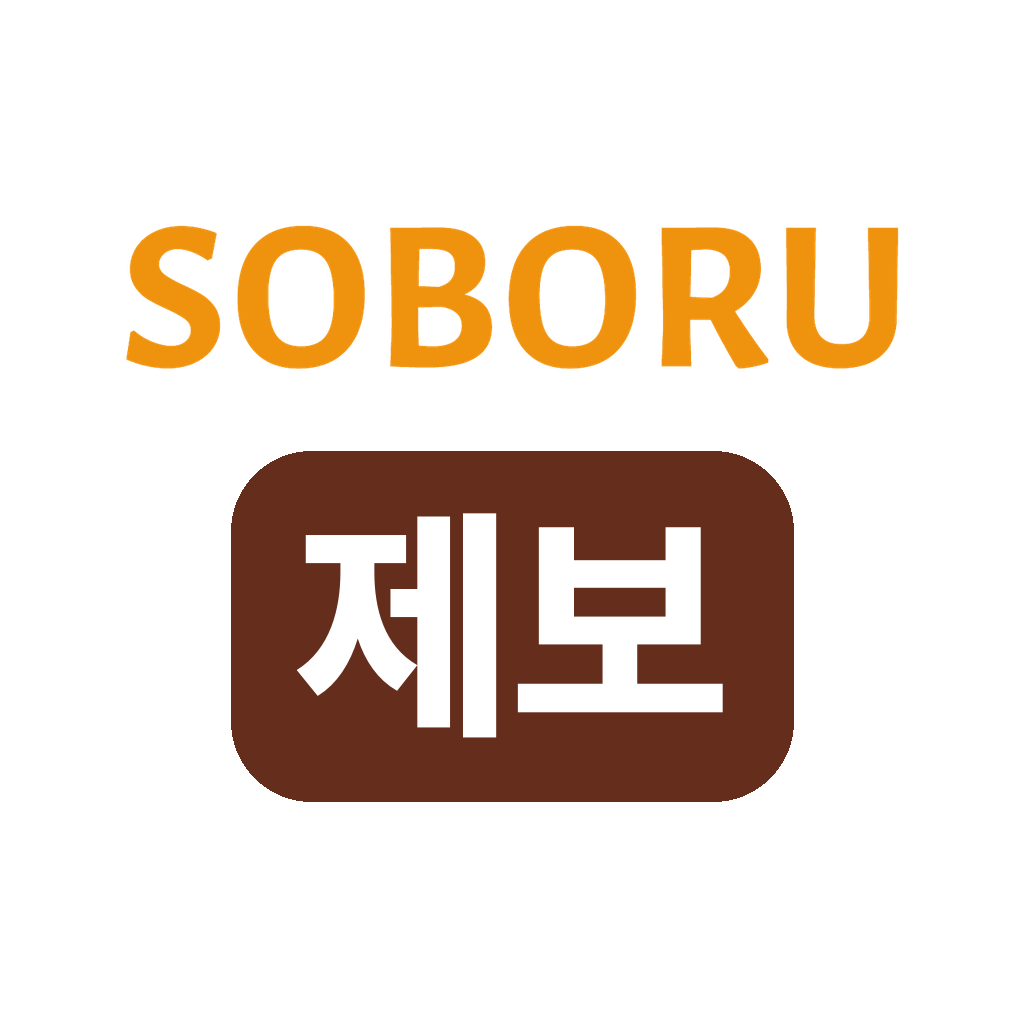
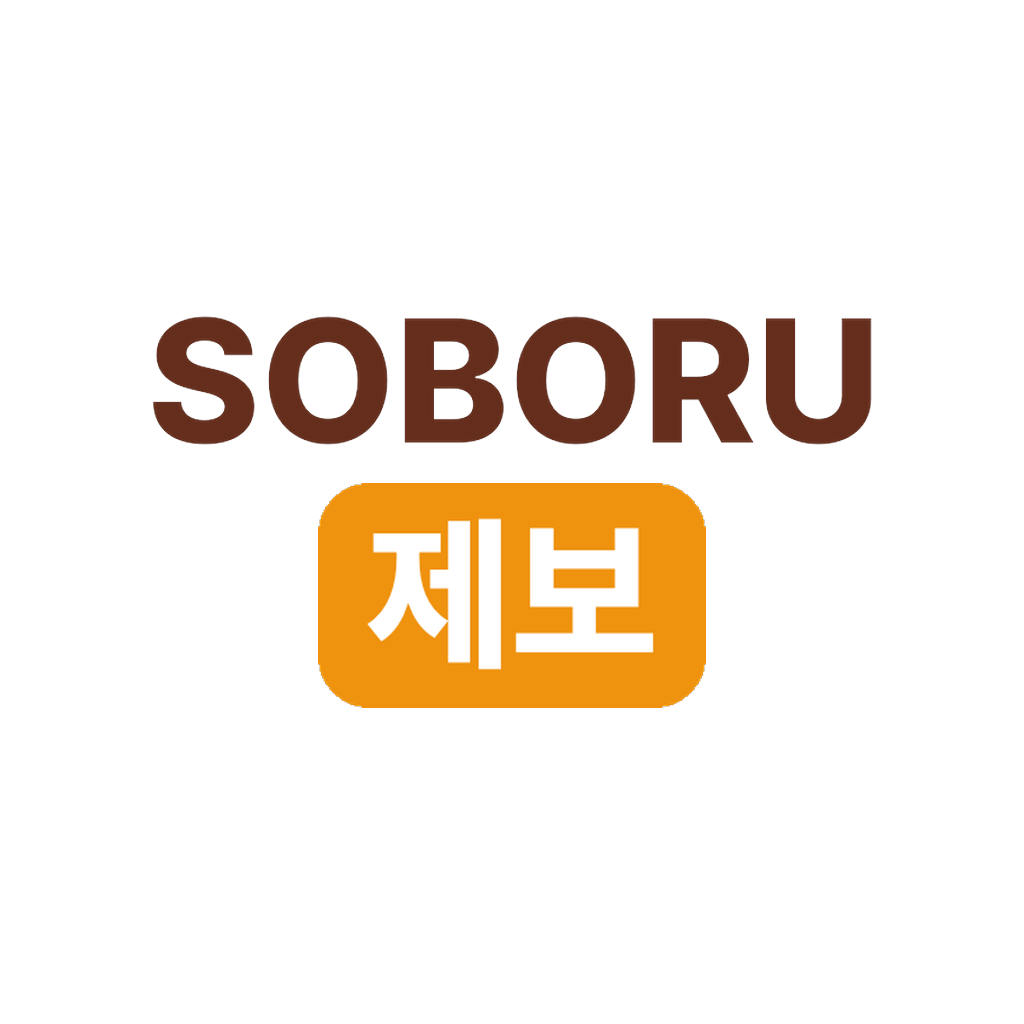
소보루제보 앱 1.1.0: 갈색 SOBORU + 귤색 제보 상자 아이콘, 제보하기 탭은 글쓰기 제보로
Claude-Session: https://claude.ai/code/session_01SGfBdtXmX7h9qt8XW4iLQw

Changed region(s): [[0.125, 0.2188, 0.875, 0.7812]]

diff --git a/soboru-app/src/TabBar.tsx b/soboru-app/src/TabBar.tsx
@@ -12,10 +12,10 @@ const MUTE = '#9A918A';
 
 export function tabsFor(member: boolean): Tab[] {
   return [
-    // 소보루제보 앱 (운영자 2026-11-03): 소비자제보센터(consumerjebo.co.kr)를 띄우고, 제보하기는 AI와 대화로
+    // 소보루제보 앱 (운영자 2026-11-03): 소비자제보센터(consumerjebo.co.kr)를 띄우고, 제보하기는 글쓰기 제보(/report, 위에 대화로 제보하기 칸)
     { key: 'home', label: '홈', path: '/' },
     { key: 'board', label: '제보 목록', path: '/reports' },
-    { key: 'report', label: '제보하기', path: '/report/talk' },
+    { key: 'report', label: '제보하기', path: '/report' },
     { key: 'life', label: '알림', path: member ? '/me/alerts' : '/login?next=/me/alerts' },
     member ? { key: 'my', label: '내 제보', path: '/me' } : { key: 'my', label: '내 제보', path: '/lookup' },
   ];
